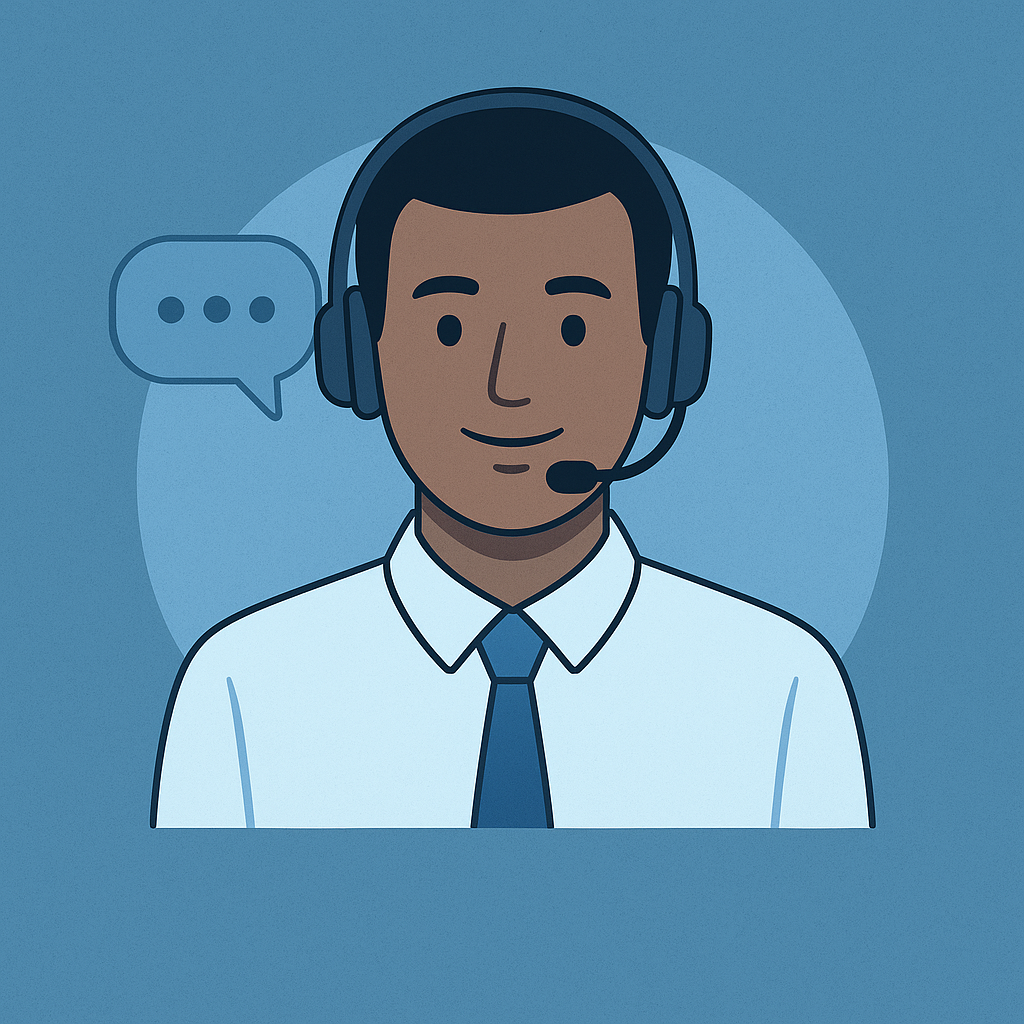
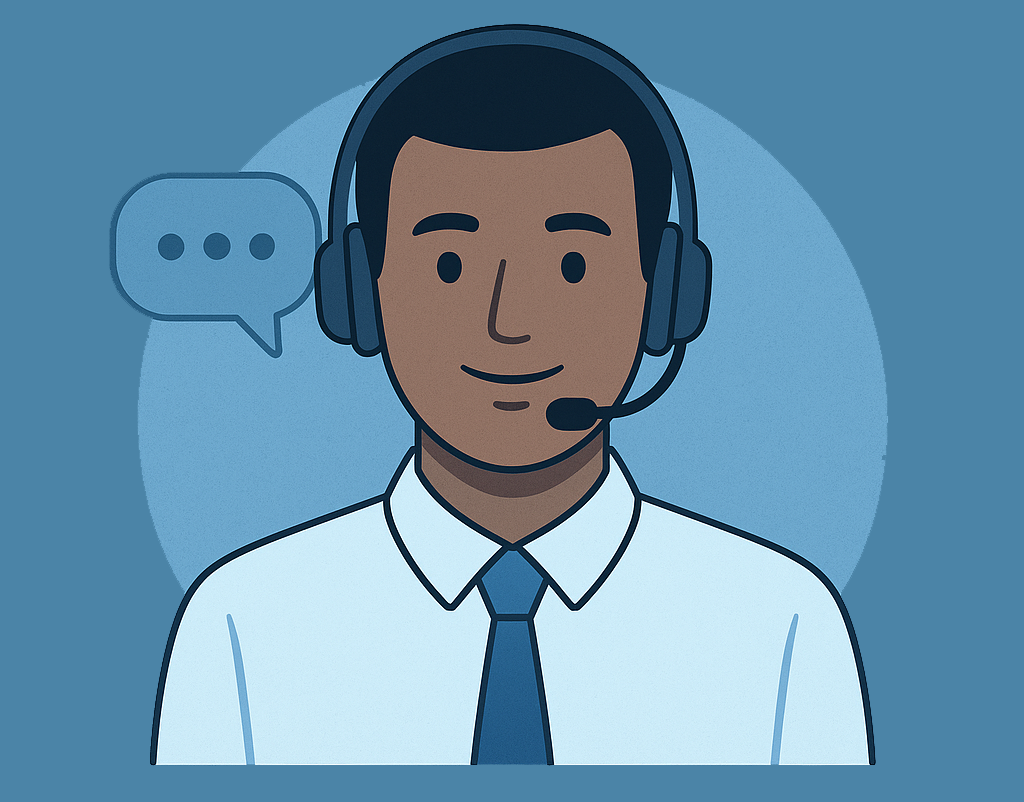
better support image

diff --git a/lib/widgets/support_card_widget.dart b/lib/widgets/support_card_widget.dart
@@ -32,9 +32,11 @@ class SupportCardWidget extends StatelessWidget {
             height: 120,
             decoration: BoxDecoration(
               borderRadius: BorderRadius.circular(8.0),
+              color: const Color.fromARGB(255, 75, 132, 167), // subtle background behind image
               image: const DecorationImage(
                 image: AssetImage('assets/support.png'),
-                fit: BoxFit.cover,
+                fit: BoxFit.fitHeight, // fill height, keep aspect ratio
+                alignment: Alignment.center,
               ),
             ),
           ),